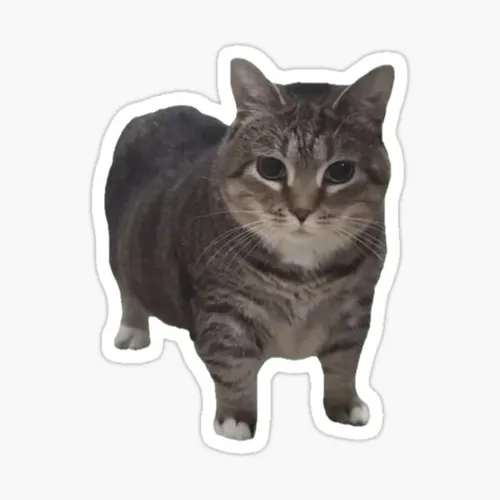
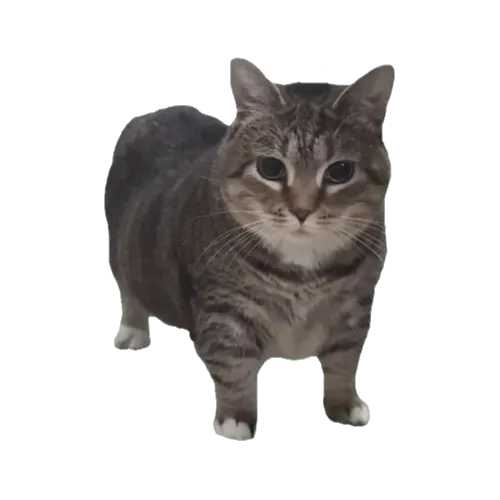
Endgame screen

diff --git a/Bonus Week/script.js b/Bonus Week/script.js
@@ -222,11 +222,23 @@ class PlayGame extends Phaser.Scene {
     endGame() {
         this.isOver = true;
         this.physics.pause();
+
+        this.add.rectangle(640, 390, 760, 360, 0x000000, 0.8).setStrokeStyle(4, 0xffffff).setDepth(9);
         this.add.text(640, 320, "GAME OVER", {
             fontFamily: "monospace", fontSize: "64px", color: "#ff5555"
         }).setOrigin(0.5).setDepth(10);
-        this.add.text(640, 400, "You have reached wave: " + this.wave, {
+        this.add.text(640, 400, "You reached wave: " + this.wave, {
             fontFamily: "monospace", fontSize: "64px", color: "#ff5555"
         }).setOrigin(0.5).setDepth(10);
+        const blinking = this.add.text(640, 490, "Press F5 to restart", {
+            fontFamily: "monospace", fontSize: "64px", color: "#ff5555"
+        }).setOrigin(0.5).setDepth(10);
+        this.tweens.add({
+            targets: blinking,
+            alpha: 0,
+            duration: 500,
+            yoyo: true,
+            repeat: -1
+        });
     }
 }
